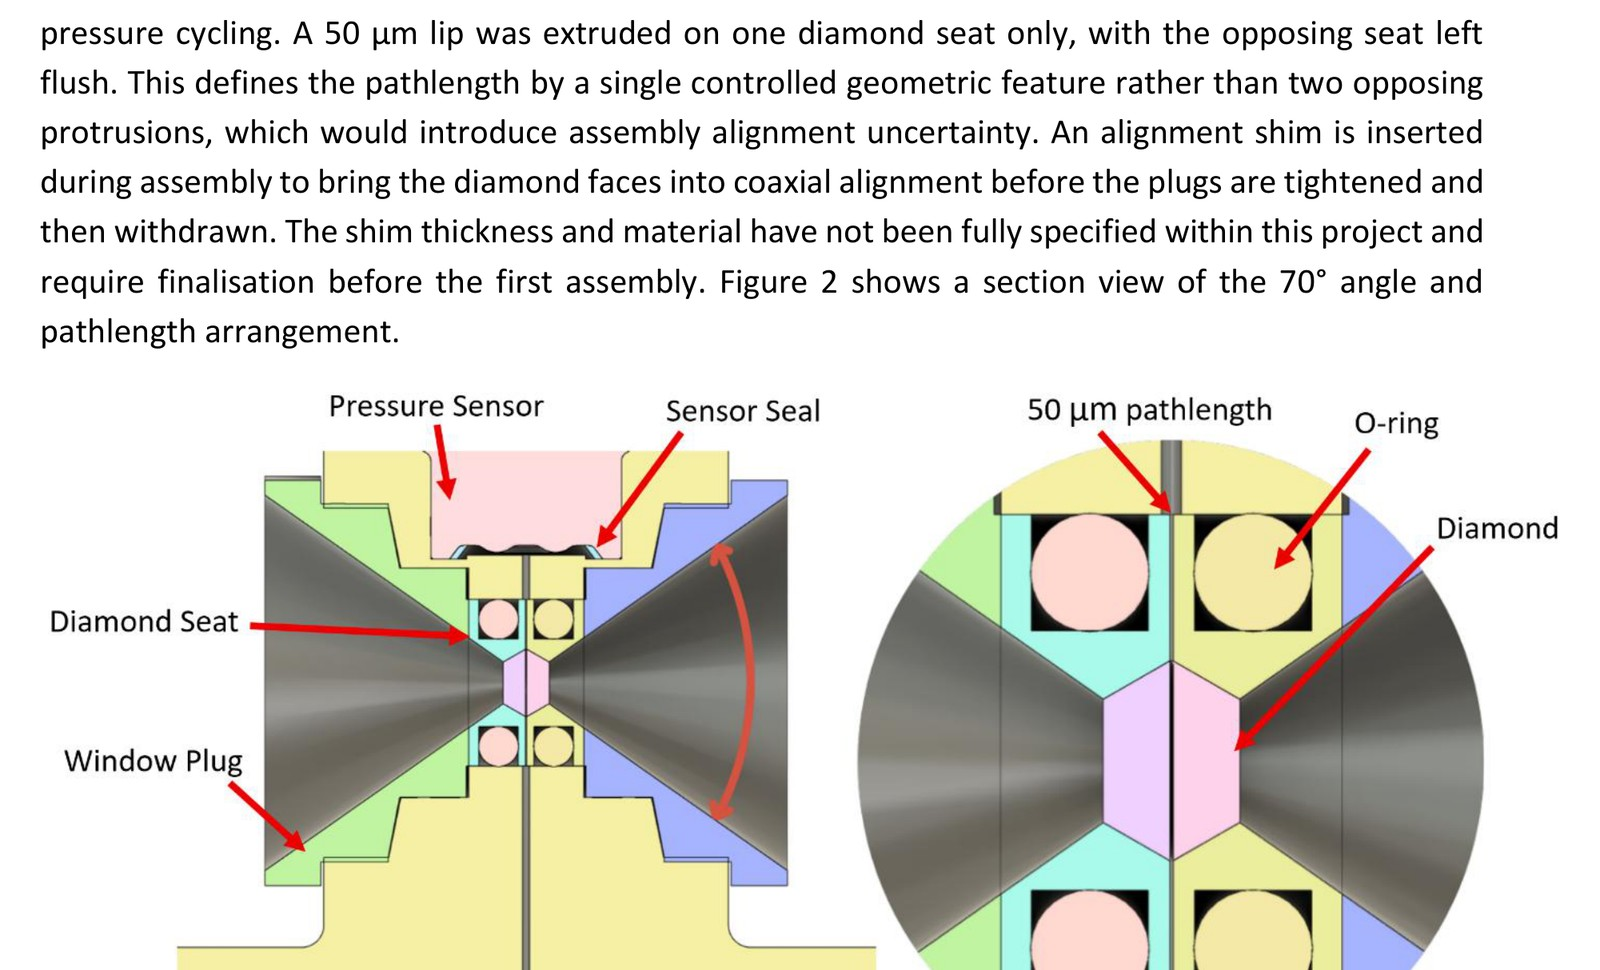
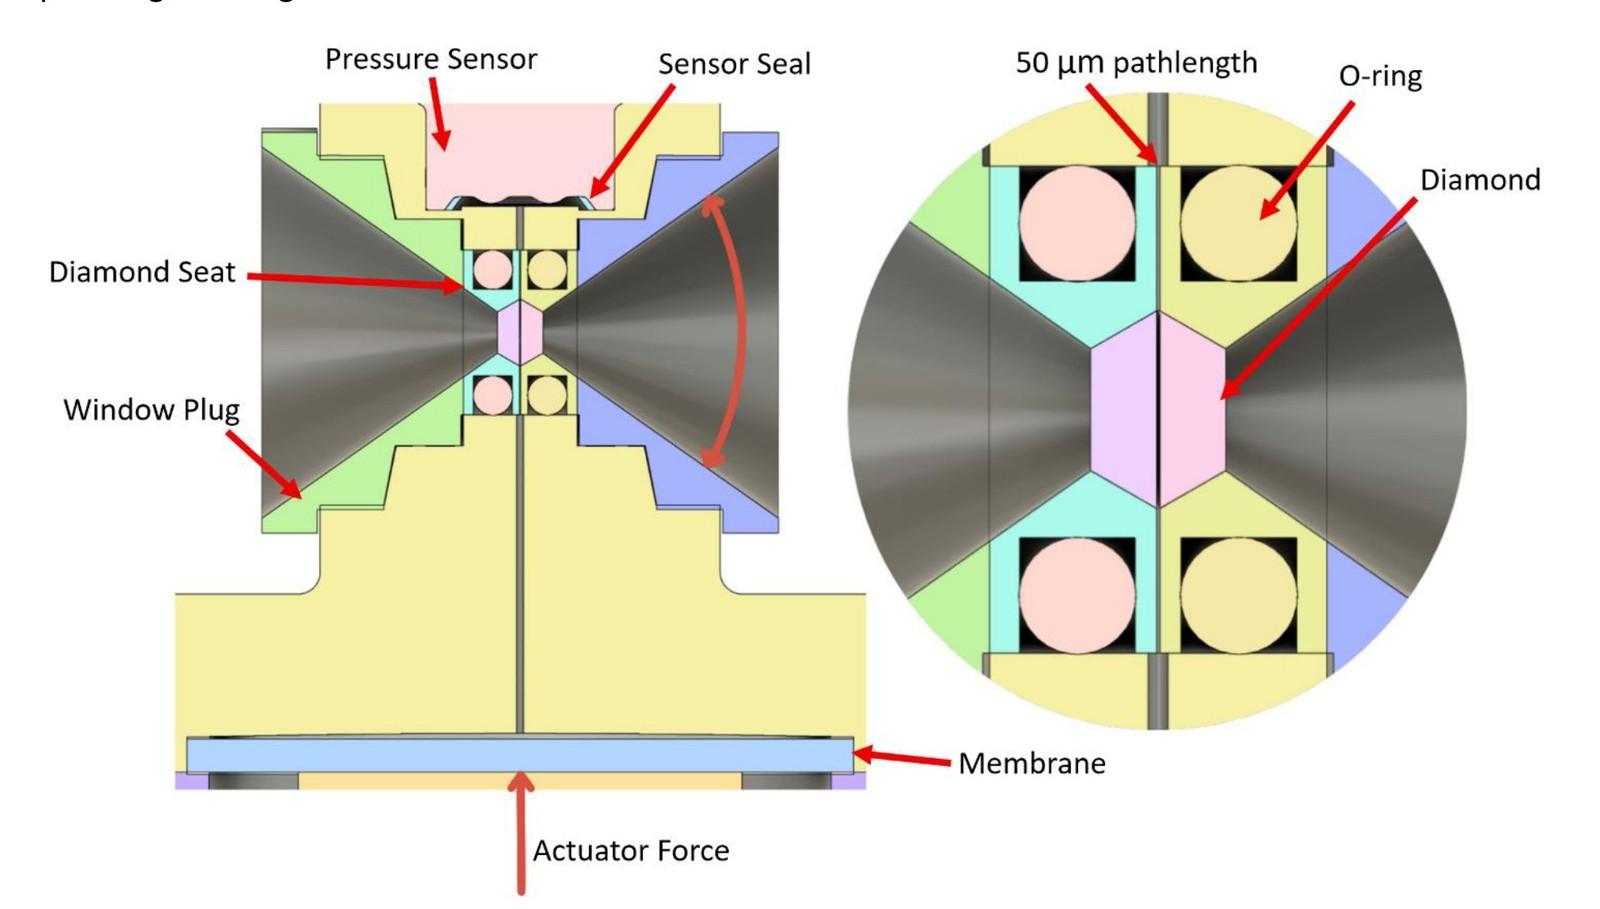
Add image lightbox, update wordmark, increase hero spacing, fix figure crop

diff --git a/styles.css b/styles.css
@@ -163,15 +163,22 @@ a {
 
 .wordmark {
   font-family: var(--display);
-  font-size: 1.24rem;
-  letter-spacing: 0.02em;
+  font-size: 1.3rem;
+  letter-spacing: 0.015em;
   color: var(--ink);
   white-space: nowrap;
 }
 
-.wordmark em {
-  font-style: italic;
+.wordmark b {
+  font-weight: 400;
+  font-style: normal;
   color: var(--brass);
+}
+
+.wordmark i {
+  font-weight: 400;
+  font-style: normal;
+  color: var(--ink);
 }
 
 .masthead nav {
@@ -262,7 +269,7 @@ a {
   font-size: clamp(3.4rem, 14.6vw, 14.5rem);
   line-height: 0.86;
   letter-spacing: -0.02em;
-  margin-bottom: clamp(28px, 4vw, 56px);
+  margin-bottom: clamp(48px, 7vw, 104px);
   white-space: nowrap;
 }
 
@@ -1062,4 +1069,141 @@ a {
   body {
     background: #fff;
   }
+}
+
+
+/* --------------------------------------------------------------------------
+   Enlargeable figures
+   Any image inside a .plate-figure can be opened full size. The affordance
+   is a hairline badge that fades in on hover and is always visible on touch,
+   plus a zoom cursor.
+   -------------------------------------------------------------------------- */
+
+.plate-figure {
+  position: relative;
+}
+
+.plate-figure__btn {
+  display: block;
+  width: 100%;
+  padding: 0;
+  border: 0;
+  background: none;
+  cursor: zoom-in;
+  font: inherit;
+  color: inherit;
+  position: relative;
+}
+
+.plate-figure__hint {
+  position: absolute;
+  right: 14px;
+  bottom: 14px;
+  display: inline-flex;
+  align-items: center;
+  gap: 8px;
+  padding: 8px 14px;
+  background: color-mix(in srgb, var(--paper) 92%, transparent);
+  backdrop-filter: blur(6px);
+  border: 1px solid var(--line);
+  color: var(--ink);
+  font-size: 0.64rem;
+  font-weight: 500;
+  letter-spacing: 0.18em;
+  text-transform: uppercase;
+  opacity: 0;
+  transform: translateY(6px);
+  transition: opacity 380ms var(--ease), transform 380ms var(--ease);
+  pointer-events: none;
+}
+
+.plate-figure__btn:hover .plate-figure__hint,
+.plate-figure__btn:focus-visible .plate-figure__hint {
+  opacity: 1;
+  transform: translateY(0);
+}
+
+/* Touch devices get no hover, so show it permanently */
+@media (hover: none) {
+  .plate-figure__hint {
+    opacity: 1;
+    transform: none;
+  }
+}
+
+.plate-figure__hint svg {
+  width: 13px;
+  height: 13px;
+  stroke: var(--brass);
+  fill: none;
+  stroke-width: 1.6;
+}
+
+/* Overlay */
+.lightbox {
+  position: fixed;
+  inset: 0;
+  z-index: 200;
+  display: flex;
+  flex-direction: column;
+  align-items: center;
+  justify-content: center;
+  gap: 20px;
+  padding: clamp(20px, 5vw, 64px);
+  background: color-mix(in srgb, var(--forest) 96%, transparent);
+  opacity: 0;
+  visibility: hidden;
+  transition: opacity 420ms var(--ease), visibility 420ms var(--ease);
+}
+
+.lightbox.is-open {
+  opacity: 1;
+  visibility: visible;
+}
+
+.lightbox__img {
+  max-width: min(1280px, 100%);
+  max-height: 76vh;
+  object-fit: contain;
+  background: var(--paper);
+  border: 1px solid rgba(238, 241, 234, 0.22);
+  transform: scale(0.985);
+  transition: transform 480ms var(--ease);
+}
+
+.lightbox.is-open .lightbox__img {
+  transform: scale(1);
+}
+
+.lightbox__caption {
+  color: #c3cbc3;
+  font-size: 0.86rem;
+  text-align: center;
+  max-width: 70ch;
+}
+
+.lightbox__close {
+  position: absolute;
+  top: clamp(16px, 3vw, 34px);
+  right: clamp(16px, 3vw, 34px);
+  width: 46px;
+  height: 46px;
+  display: grid;
+  place-items: center;
+  background: none;
+  border: 1px solid rgba(238, 241, 234, 0.28);
+  color: var(--paper);
+  cursor: pointer;
+  font-size: 1.1rem;
+  line-height: 1;
+  transition: border-color 320ms var(--ease), color 320ms var(--ease);
+}
+
+.lightbox__close:hover {
+  border-color: var(--brass);
+  color: var(--brass-light);
+}
+
+body.lightbox-open {
+  overflow: hidden;
 }

diff --git a/site.js b/site.js
@@ -73,6 +73,82 @@
       });
     }
 
+
+    /* ---- Lightbox: click any figure image to enlarge ------------------ */
+    var figures = document.querySelectorAll(".plate-figure");
+
+    if (figures.length) {
+      var overlay = document.createElement("div");
+      overlay.className = "lightbox";
+      overlay.setAttribute("role", "dialog");
+      overlay.setAttribute("aria-modal", "true");
+      overlay.setAttribute("aria-label", "Enlarged image");
+      overlay.innerHTML =
+        '<button class="lightbox__close" type="button" aria-label="Close">&#10005;</button>' +
+        '<img class="lightbox__img" alt="" />' +
+        '<p class="lightbox__caption"></p>';
+      document.body.appendChild(overlay);
+
+      var oImg = overlay.querySelector(".lightbox__img");
+      var oCap = overlay.querySelector(".lightbox__caption");
+      var oClose = overlay.querySelector(".lightbox__close");
+      var lastFocus = null;
+
+      var open = function (src, alt, caption) {
+        lastFocus = document.activeElement;
+        oImg.src = src;
+        oImg.alt = alt || "";
+        oCap.textContent = caption || "";
+        overlay.classList.add("is-open");
+        document.body.classList.add("lightbox-open");
+        oClose.focus();
+      };
+
+      var close = function () {
+        overlay.classList.remove("is-open");
+        document.body.classList.remove("lightbox-open");
+        if (lastFocus) lastFocus.focus();
+      };
+
+      figures.forEach(function (fig) {
+        var img = fig.querySelector("img");
+        if (!img) return;
+
+        /* Wrap the image in a button so it is keyboard reachable and
+           announced correctly, then add the visible hint. */
+        var btn = document.createElement("button");
+        btn.type = "button";
+        btn.className = "plate-figure__btn";
+        btn.setAttribute("aria-label", "Enlarge image: " + (img.alt || "figure"));
+        img.parentNode.insertBefore(btn, img);
+        btn.appendChild(img);
+
+        var hint = document.createElement("span");
+        hint.className = "plate-figure__hint";
+        hint.innerHTML =
+          '<svg viewBox="0 0 24 24" aria-hidden="true">' +
+          '<circle cx="11" cy="11" r="7"></circle>' +
+          '<line x1="16" y1="16" x2="21" y2="21"></line>' +
+          '<line x1="11" y1="8" x2="11" y2="14"></line>' +
+          '<line x1="8" y1="11" x2="14" y2="11"></line>' +
+          "</svg>Enlarge";
+        btn.appendChild(hint);
+
+        btn.addEventListener("click", function () {
+          var cap = fig.querySelector("figcaption");
+          open(img.currentSrc || img.src, img.alt, cap ? cap.textContent.trim() : "");
+        });
+      });
+
+      overlay.addEventListener("click", function (e) {
+        if (e.target === overlay || e.target === oClose) close();
+      });
+
+      document.addEventListener("keydown", function (e) {
+        if (e.key === "Escape" && overlay.classList.contains("is-open")) close();
+      });
+    }
+
     /* ---- Parallax ----------------------------------------------------- */
     var layers = document.querySelectorAll(".parallax");
 

diff --git a/index.html b/index.html
@@ -47,7 +47,7 @@
 
     <header class="masthead">
       <div class="shell masthead__inner">
-        <a class="wordmark" href="index.html">Diljit <em>Singh</em></a>
+        <a class="wordmark" href="index.html"><b>by</b><i>diljit</i><b>singh</b></a>
         <nav>
           <a href="index.html" aria-current="page">Home</a>
           <a href="projects.html">Projects</a>
